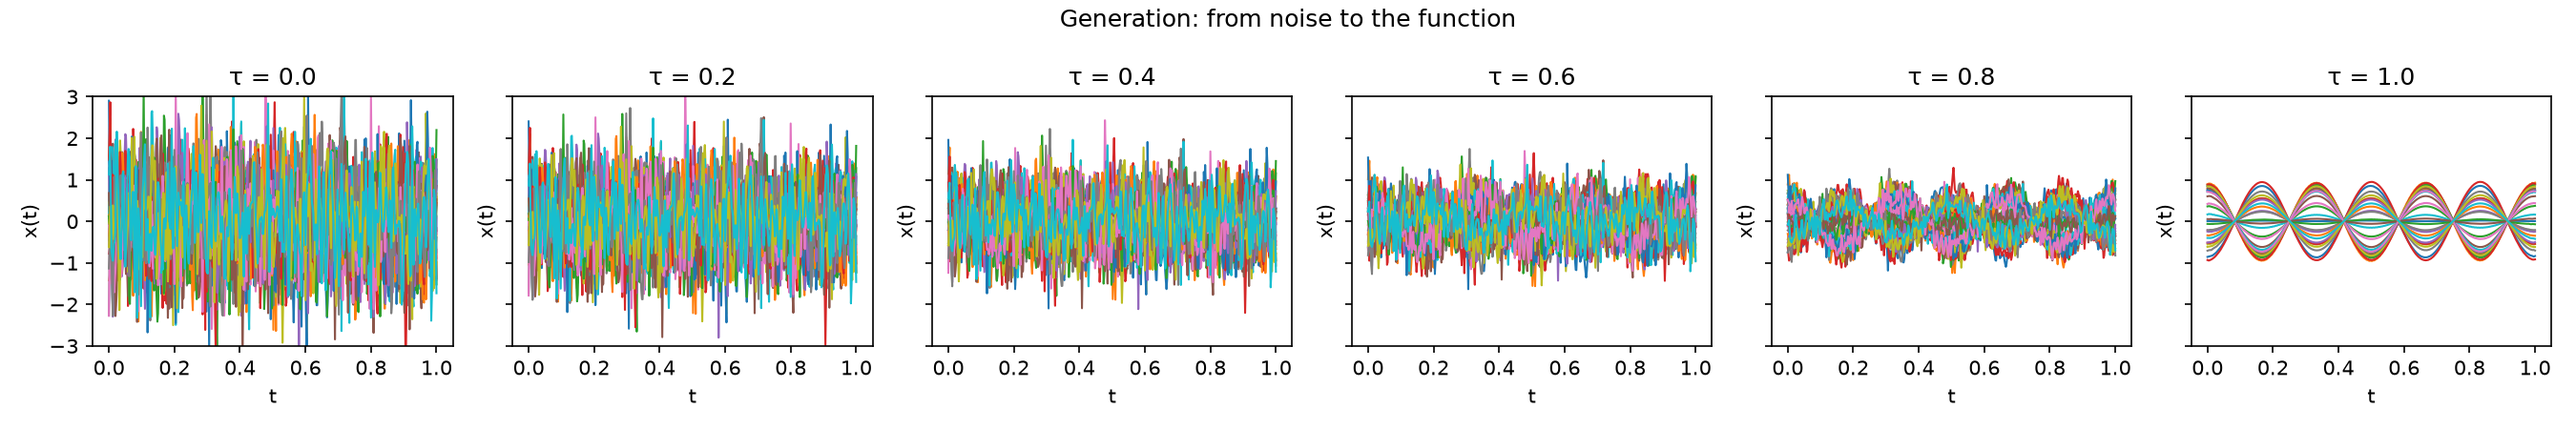
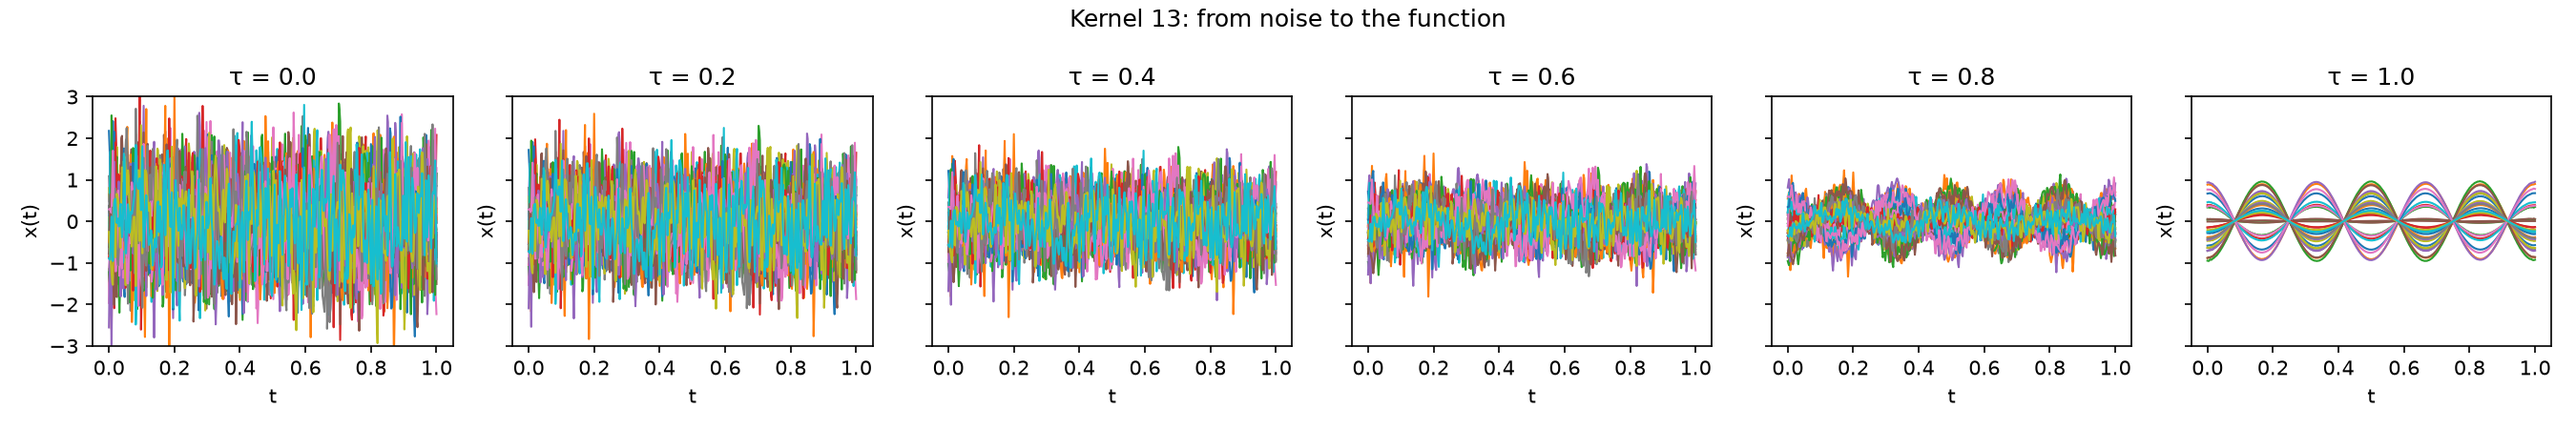
the new plot for the multikernel experiment

Changed region(s): [[0.0311, 0.2178, 0.4978, 0.8089], [0.5289, 0.3733, 0.9956, 0.6533], [0.4044, 0.0311, 0.5911, 0.0622]]

diff --git a/results/experiment_10/generating.py b/results/experiment_10/generating.py
@@ -1,41 +1,46 @@
-"""GENERATION: loads a trained checkpoint and produces functions, plots and metrics."""
+"""GENERATION: loads the three models of experiment 10 (kernels 9, 11 and 13), generates with each of them
+from the same initial noise and compares the generated functions."""
 import matplotlib.pyplot as plt
 import torch
 
 from flow_matching_fda.data import make_sinusoids
 from flow_matching_fda.flow_matching import functions_at, generate
-from flow_matching_fda.quality import constancy_mse, plot_quality
-from flow_matching_fda.visualize import plot_evolution, plot_originals
+from flow_matching_fda.visualize import plot_evolution, plot_final_comparison, plot_originals
 from models.unet_adaptation import SongsUNet1D
 
 # ---- Configuration ----
-CHECKPOINT_PATH = "unet1d_1000_epochs_kernel_13.pt"
-N_GENERATE = 50       # functions to generate for the evaluation
-ODE_STEPS = 1000      # integration steps of the ODE
+KERNEL_SIZES = [9, 11, 13]      # one trained model per kernel size: unet1d_1000_epochs_kernel_{k}.pt
+N_GENERATE = 50                 # functions to generate with each model
+ODE_STEPS = 1000                # integration steps of the ODE
+NOISE_SEED = 0                  # same initial noise for every model, so that they can be compared
 DEVICE = "mps" if torch.backends.mps.is_available() else "cpu"
 
-# ---- 1. Load checkpoint and rebuild the model ----
-ckpt = torch.load(CHECKPOINT_PATH, map_location=DEVICE)
-model = SongsUNet1D(**ckpt["model_args"]).to(DEVICE)
-model.load_state_dict(ckpt["model_state"])
-model.eval()
+generated = {}                  # generated functions (tau = 1) of each model
 
-# ---- 2. Rebuild the real data (same seed as in training, to compare) ----
-args = ckpt["data_args"]
-data = make_sinusoids(args["n_samples"], args["n_points"], random_state=args["seed"])
+for kernel_size in KERNEL_SIZES:
+    # ---- 1. Load checkpoint and rebuild the model ----
+    ckpt = torch.load(f"unet1d_1000_epochs_kernel_{kernel_size}.pt", map_location=DEVICE)
+    model = SongsUNet1D(**ckpt["model_args"]).to(DEVICE)
+    model.load_state_dict(ckpt["model_state"])
+    model.eval()
 
-# ---- 3. Generate new functions on the same grid t (the whole trajectory: from noise to functions) ----
-trajectory = generate(model, N_GENERATE, data.grid_points[0], steps=ODE_STEPS)   # FDataGrid of surfaces x(tau, t)
-generated = functions_at(trajectory, -1)                                          # FDataGrid of functions x(t) at tau = 1
+    # ---- 2. Rebuild the real data (same seed as in training, to compare) ----
+    args = ckpt["data_args"]
+    data = make_sinusoids(args["n_samples"], args["n_points"], random_state=args["seed"])
 
-# ---- 4. Metrics ----
-mse = constancy_mse(generated).mean()      # 0 = perfectly constant
-n_params = sum(p.numel() for p in model.parameters() if p.requires_grad)
-print(f"Constancy MSE of the generated functions: {mse:.6f}")
-print(f"Number of parameters of the model: {n_params}")
+    # ---- 3. Generate new functions on the same grid t (the whole trajectory: from noise to functions) ----
+    trajectory = generate(model, N_GENERATE, data.grid_points[0], steps=ODE_STEPS, random_state=NOISE_SEED)
+    generated[f"kernel {kernel_size}"] = functions_at(trajectory, -1)     # FDataGrid of functions x(t) at tau = 1
 
-# ---- 5. Plots ----
+    # ---- 4. Metrics ----
+    n_params = sum(p.numel() for p in model.parameters() if p.requires_grad)
+    print(f"Kernel {kernel_size}: number of parameters of the model: {n_params}")
+
+    # ---- 5. Evolution of this model ----
+    plot_evolution(trajectory, title=f"Kernel {kernel_size}: from noise to the function",
+                   path=f"evolution_kernel_{kernel_size}.png")
+
+# ---- 6. Plots shared by the three models (all of them were trained on the same data) ----
 plot_originals(data)
-plot_evolution(trajectory)
-plot_quality(data, generated)
+plot_final_comparison(generated)      # final_comparison.png
 plt.show()

diff --git a/results/experiment_12/generating.py b/results/experiment_12/generating.py
@@ -3,14 +3,13 @@ import matplotlib.pyplot as plt
 import torch
 
 from flow_matching_fda.data import make_sinusoids
-from flow_matching_fda.flow_matching import functions_at, generate
-from flow_matching_fda.quality import constancy_mse, plot_quality
+from flow_matching_fda.flow_matching import generate
 from flow_matching_fda.visualize import plot_evolution, plot_originals
 from models.convolutionals import PropuestaPersonal
 
 # ---- Configuration ----
 CHECKPOINT_PATH = "propuesta_10000_epochs.pt"
-N_GENERATE = 15       # functions to generate for the evaluation
+N_GENERATE = 50       # functions to generate for the evaluation
 ODE_STEPS = 1000      # integration steps of the ODE
 DEVICE = "mps" if torch.backends.mps.is_available() else "cpu"
 
@@ -26,16 +25,12 @@ data = make_sinusoids(args["n_samples"], args["n_points"], random_state=args["se
 
 # ---- 3. Generate new functions on the same grid t (the whole trajectory: from noise to functions) ----
 trajectory = generate(model, N_GENERATE, data.grid_points[0], steps=ODE_STEPS)   # FDataGrid of surfaces x(tau, t)
-generated = functions_at(trajectory, -1)                                          # FDataGrid of functions x(t) at tau = 1
 
 # ---- 4. Metrics ----
-mse = constancy_mse(generated).mean()      # 0 = perfectly constant
 n_params = sum(p.numel() for p in model.parameters() if p.requires_grad)
-print(f"Constancy MSE of the generated functions: {mse:.6f}")
 print(f"Number of parameters of the model: {n_params}")
 
 # ---- 5. Plots ----
 plot_originals(data)
 plot_evolution(trajectory)
-plot_quality(data, generated)
 plt.show()

diff --git a/results/experiment_10/training.py b/results/experiment_10/training.py
@@ -6,6 +6,7 @@ import torch
 
 from flow_matching_fda.data import make_sinusoids
 from flow_matching_fda.train import train
+from flow_matching_fda.visualize import plot_losses
 from models.unet_adaptation import SongsUNet1D
 
 # ---- Configuration ----
@@ -18,7 +19,7 @@ KERNEL_SIZE = 11
 EPOCHS = 1000
 SEED = 0
 DEVICE = "mps" if torch.backends.mps.is_available() else "cpu"
-CHECKPOINT_PATH = f"unet1d_{EPOCHS}_epochs.pt"
+CHECKPOINT_PATH = f"unet1d_{EPOCHS}_epochs_kernel_{KERNEL_SIZE}.pt"
 
 torch.manual_seed(SEED)              # model initialization and CFM noise
 
@@ -33,7 +34,7 @@ model = SongsUNet1D(
 ).to(DEVICE)
 
 # ---- 2. Train (train() moves the FDataGrid to a tensor on the model's device) ----
-train(model, data, epochs=EPOCHS)
+losses = train(model, data, epochs=EPOCHS)
 
 # ---- 3. Save checkpoint: weights + everything needed to rebuild model and data ----
 torch.save({
@@ -51,3 +52,6 @@ torch.save({
 n_params = sum(p.numel() for p in model.parameters() if p.requires_grad)
 print(f"Checkpoint saved in {CHECKPOINT_PATH}")
 print(f"Number of trained parameters: {n_params}")
+
+# ---- 4. Loss plot (losses_kernel_{KERNEL_SIZE}.png) ----
+plot_losses(losses, path=f"losses_kernel_{KERNEL_SIZE}.png")

diff --git a/results/experiment_12/training.py b/results/experiment_12/training.py
@@ -6,6 +6,7 @@ import torch
 
 from flow_matching_fda.data import make_sinusoids
 from flow_matching_fda.train import train
+from flow_matching_fda.visualize import plot_losses
 from models.convolutionals import PropuestaPersonal
 
 # ---- Configuration ----
@@ -32,7 +33,7 @@ model = PropuestaPersonal(
 ).to(DEVICE)
 
 # ---- 2. Train (train() moves the FDataGrid to a tensor on the model's device) ----
-train(model, data, epochs=EPOCHS)
+losses = train(model, data, epochs=EPOCHS)
 
 # ---- 3. Save checkpoint: weights + everything needed to rebuild model and data ----
 torch.save({
@@ -49,3 +50,6 @@ torch.save({
 n_params = sum(p.numel() for p in model.parameters() if p.requires_grad)
 print(f"Checkpoint saved in {CHECKPOINT_PATH}")
 print(f"Number of trained parameters: {n_params}")
+
+# ---- 4. Loss plot (losses.png) ----
+plot_losses(losses)
